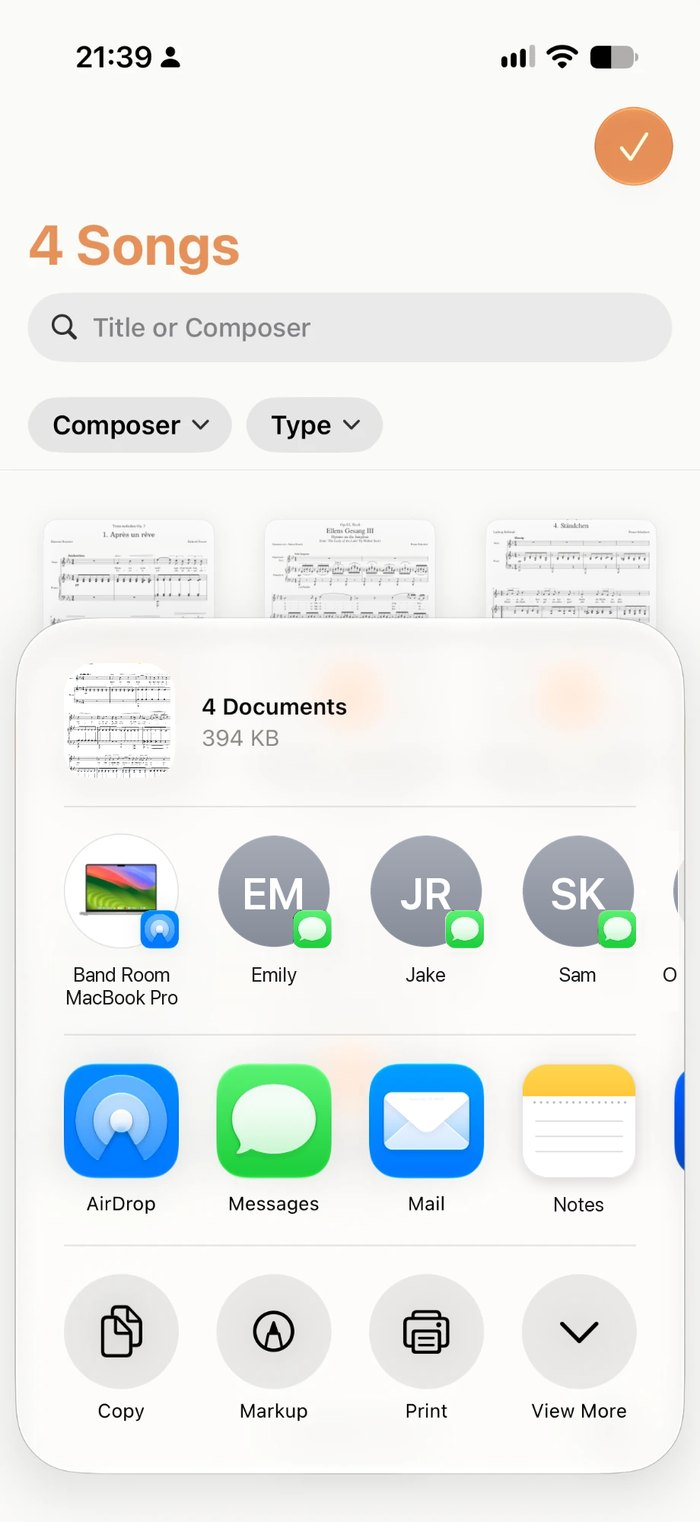
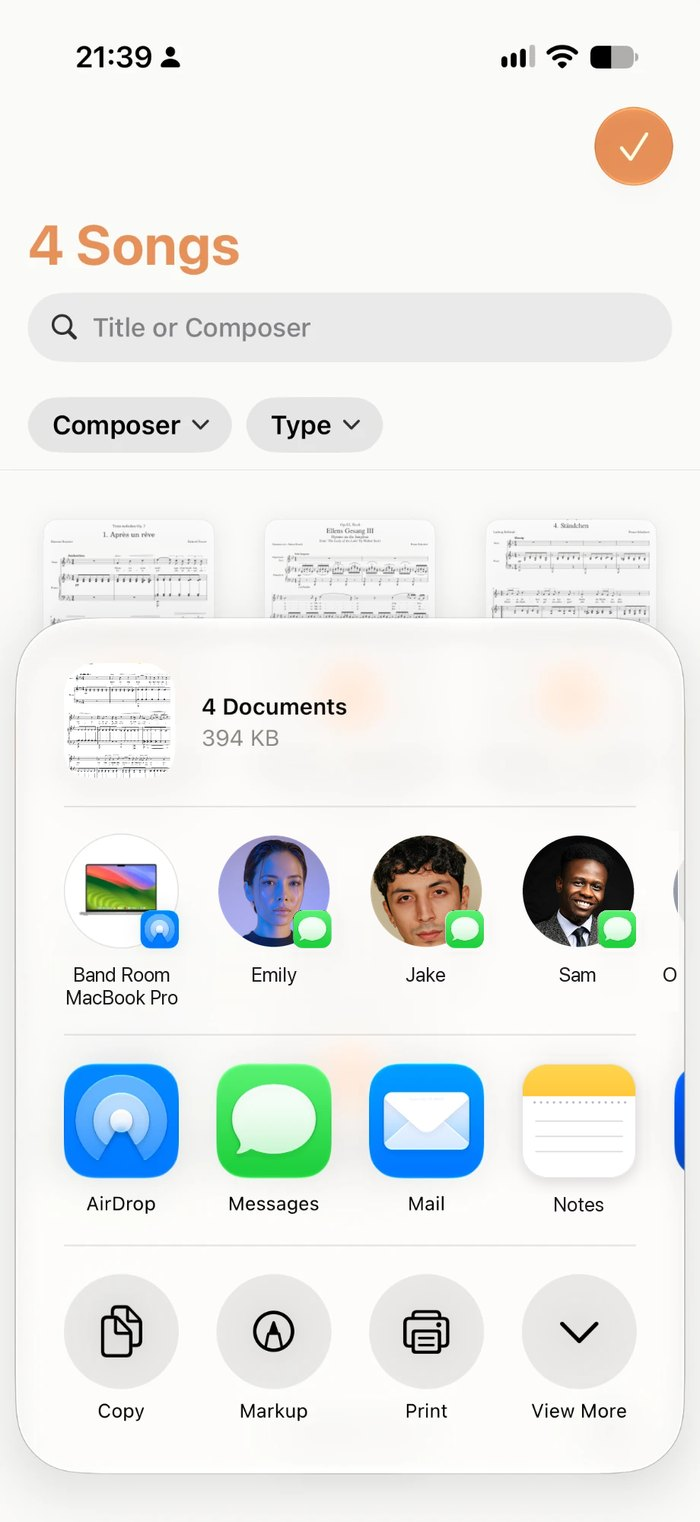
Sharing: owner-supplied profile photos for the share sheet contacts

Changed region(s): [[0.3, 0.525, 0.48, 0.6485], [0.51, 0.525, 0.69, 0.6485], [0.75, 0.525, 0.9, 0.6485]]

diff --git a/features/sharing.html b/features/sharing.html
@@ -225,7 +225,7 @@
       <div class="rf-visual"><div class="device tablet fit"><div class="screen shot"><img src="/assets/annotate-ipad.jpg?v=2" alt="A score in Music Folder on iPad, marked up with handwritten notes and highlights in several colors" width="900" height="1305" loading="lazy"></div></div></div>
     </div><div class="row-feature">
       <div class="rf-text"><h2 class="heading-sm">Or send <em>a copy.</em></h2><p>For someone who just needs the music once, send a song, folder or set list as a file. They tap it to import, markings and all.</p><ul class="rf-points"><li><svg viewBox="0 0 16 16" fill="none" stroke="currentColor" stroke-width="1.9" stroke-linecap="round" stroke-linejoin="round" aria-hidden="true"><path d="M3 8.5l3 3 7-7"/></svg><span>Songs travel with their recording</span></li><li><svg viewBox="0 0 16 16" fill="none" stroke="currentColor" stroke-width="1.9" stroke-linecap="round" stroke-linejoin="round" aria-hidden="true"><path d="M3 8.5l3 3 7-7"/></svg><span>Set lists as one PDF for printing</span></li><li><svg viewBox="0 0 16 16" fill="none" stroke="currentColor" stroke-width="1.9" stroke-linecap="round" stroke-linejoin="round" aria-hidden="true"><path d="M3 8.5l3 3 7-7"/></svg><span>Works with AirDrop, Messages and email</span></li></ul></div>
-      <div class="rf-visual"><div class="device phone fit"><div class="screen shot"><img src="/assets/share-sheet-iphone.jpg?v=1" alt="The share sheet in Music Folder on iPhone, sending four songs with AirDrop, Messages or Mail" width="700" height="1522" loading="lazy"></div></div></div>
+      <div class="rf-visual"><div class="device phone fit"><div class="screen shot"><img src="/assets/share-sheet-iphone.jpg?v=2" alt="The share sheet in Music Folder on iPhone, sending four songs with AirDrop, Messages or Mail" width="700" height="1522" loading="lazy"></div></div></div>
     </div>
   </div>
 </section>
